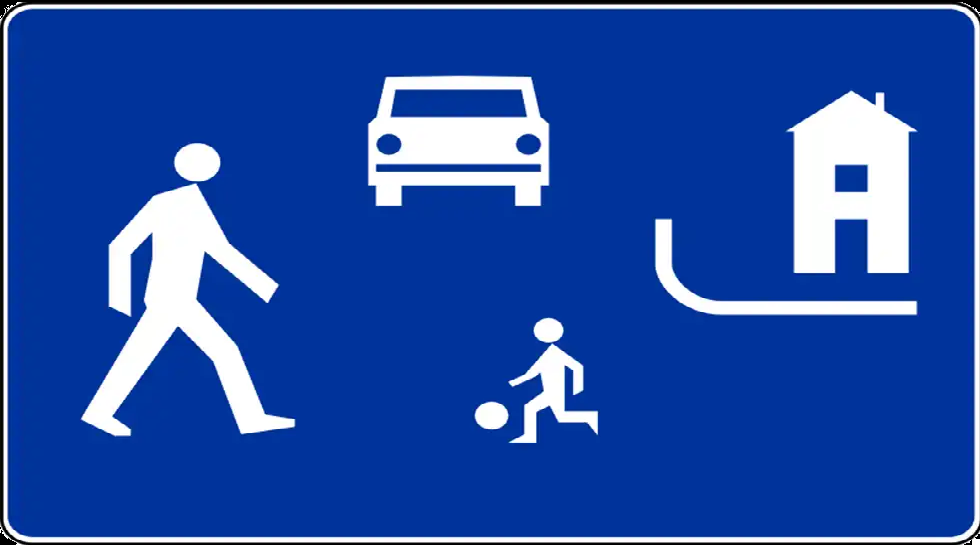
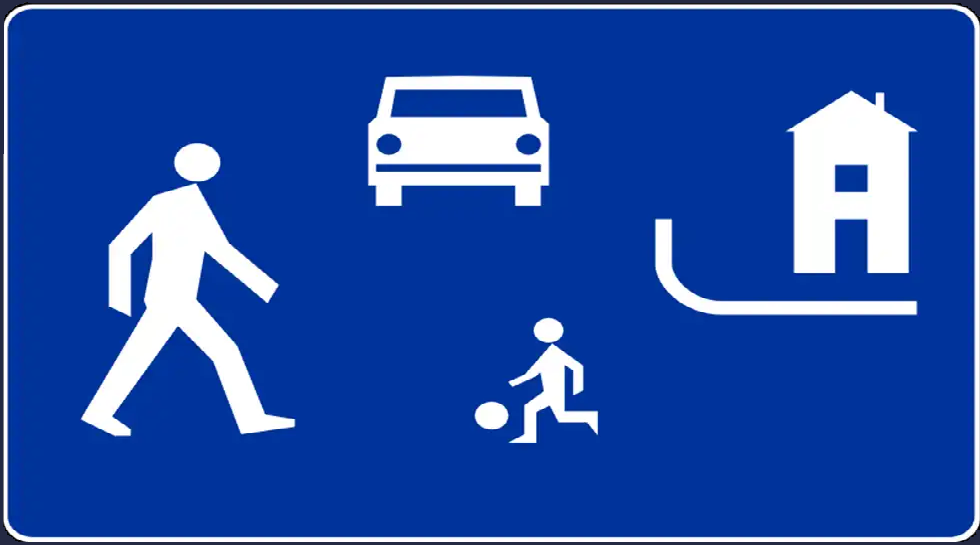
d sign corners fixed

Changed region(s): [[0.0, 0.967, 1.0, 1.0], [0.0, 0.0, 1.0, 0.3119]]

diff --git a/_layouts/post.html b/_layouts/post.html
@@ -22,7 +22,7 @@
 		<header class="major">
 			<h1>{{ page.title }}</h1>
 		</header>
-		{% if page.image %}<span class="image main">{% include image.html img-path=page.image description=page.title img-caption=false style="border-radius:4%;" %}</span>{% endif %}
+		{% if page.image %}<span class="image main">{% include image.html img-path=page.image description=page.title img-caption=false %}</span>{% endif %}
 		{{ content }}
 	</div>
 </section>
